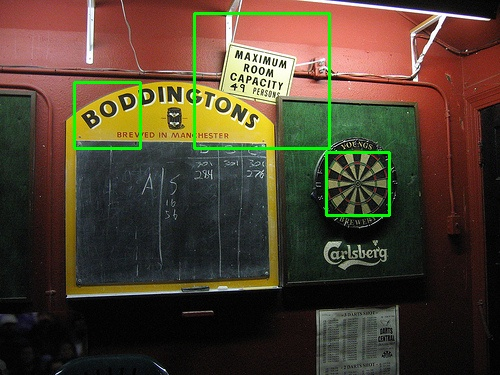
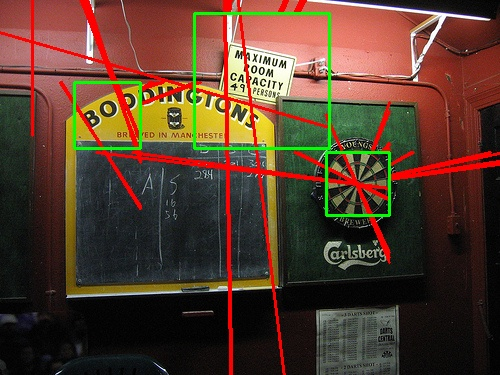
Detecting lines within box

diff --git a/dartboardDetector.cpp b/dartboardDetector.cpp
@@ -33,8 +33,8 @@ void getDirection( Mat &dfdx, Mat &dfdy, Mat &output );
 void getThresholdedMag(	Mat &input,	Mat &output );
 void getHoughSpace(	Mat &thresholdedMag, Mat &gradientDirection, int threshold, int width,	int height,	Mat &output,
                     std::vector<double> &rhoValues, std::vector<double> &thetaValues);
-void drawFoundLines( Mat &image, int width, int height, std::vector<double> &rhoValues, std::vector<double> &thetaValues, Mat &frame );
-int findLines( Mat &frame );
+void drawFoundLines( Mat &frame, Mat &croppedImg, std::vector<double> &rhoValues, std::vector<double> &thetaValues );
+int findLines( Mat &frame, Mat &croppedImg, Rect rectangle );
 int findCircles( Mat &frame );
 
 void findLinesInBoxes( Mat &frame );
@@ -244,9 +244,16 @@ void getHoughSpace( Mat &thresholdedMag, Mat &gradientDirection, int threshold, 
 	imwrite("output/houghSpace.jpg", houghSpace);
 }
 
-void drawFoundLines( Mat &image, int width, int height, std::vector<double> &rhoValues, std::vector<double> &thetaValues, Mat &frame ){
-	int centreX = width / 2;
-	int centreY = height /2;
+void drawFoundLines( Mat &frame, Mat &croppedImg, Rect rectangle, std::vector<double> &rhoValues, std::vector<double> &thetaValues ){
+
+  int frameWidth = frame.cols;
+  int frameHeight = frame.rows;
+
+  int cropWidth = croppedImg.cols;
+  int cropHeight = croppedImg.rows;
+
+  std::cout << rectangle.y << '\n';
+  Mat image = frame;
 
 	for (int i = 0; i < rhoValues.size(); i++) {
 
@@ -259,29 +266,39 @@ void drawFoundLines( Mat &image, int width, int height, std::vector<double> &rho
     // Using y = mx + c
     // y = (p/sin(theta)) - x(cos(theta)/sin(theta))
     m = cos(radians) / sin(radians);
-    c = (rho - width - height)/sin(radians);
+    c = (rho - cropWidth - cropHeight)/sin(radians);
 
     // If line is perfectly vertical or horizonal, stay in parameter
     // space
     if (cvIsInf(c)) {
       double a = cos(radians);
   		double b = sin(radians);
-  		double x0 = a * (rho - width - height);
-  		double y0 = b * (rho - width - height);
+  		double x0 = a * (rho - cropWidth - cropHeight);
+  		double y0 = b * (rho - cropWidth - cropHeight);
 
-  		point1.x = cvRound(x0 + width*(-b));
-  		point1.y = cvRound(y0 + height*(a));
-  		point2.x = cvRound(x0 - width*(-b));
-  		point2.y = cvRound(y0 - height*(a));
+  		point1.x = cvRound(x0 + cropWidth*(-b));
+  		point1.y = cvRound(y0 + cropHeight*(a));
+  		point2.x = cvRound(x0 - cropWidth*(-b));
+  		point2.y = cvRound(y0 - cropHeight*(a));
     }
     // Else use x,y space
     else {
-      // When x = 0
-      point1.x = 0;
-      point1.y = cvRound(c);
-      // When x = end of image
-      point2.x = cvRound(width);
-      point2.y = c - (width * m);
+      if (cvRound(rectangle.y + c) < rectangle.y) {
+        // When x = rectangle.x and y = rectangle.y + height
+        point1.x = cvRound(rectangle.x);
+        point1.y = cvRound(rectangle.y) + cvRound(c);
+        // When x = end of image
+        point2.x = cvRound(rectangle.x + rectangle.width);
+        point2.y = cvRound(rectangle.y) + cvRound(c - (rectangle.width * m));
+      }
+      else {
+        point1.x = cvRound(rectangle.x) + cvRound(c/m);
+        point1.y = cvRound(rectangle.y);
+        // When x = end of image
+        point2.x = cvRound(rectangle.x + rectangle.width);
+        point2.y = cvRound(rectangle.y) + cvRound(c - (rectangle.width * m));
+      }
+
     }
 
 		line(image, point1, point2,  Scalar( 0, 0, 255 ), 2);
@@ -290,13 +307,10 @@ void drawFoundLines( Mat &image, int width, int height, std::vector<double> &rho
 	imwrite("output/foundLines.jpg", image);
 }
 
-int findLines( Mat &frame ) {
+int findLines( Mat &frame, Mat &croppedImg, Rect rectangle ) {
 
-  Mat image = frame;
-  // image = imread(imgName, 1 );
+  Mat image = croppedImg;
 
-  // namedWindow( "Original Image", CV_WINDOW_AUTOSIZE );
-  // imshow( "Original Image", image );
   Mat grayImage;
 
   cvtColor( image, grayImage, CV_BGR2GRAY );
@@ -344,7 +358,7 @@ int findLines( Mat &frame ) {
 
 	getHoughSpace(thresholdedMag, gradientDirection, 240, image.cols, image.rows, houghSpace, rhoValues, thetaValues);
 
-	drawFoundLines(image, image.cols, image.rows, rhoValues, thetaValues, frame);
+	drawFoundLines(frame, image, rectangle, rhoValues, thetaValues);
 
   return rhoValues.size();
 }
@@ -416,6 +430,9 @@ int main( int argc, const char** argv ){
 	// 4. Detect Faces with Viola Jones
 	detectVJ( frame );
 
+  // Loop through rectangles to detect lines
+  findLinesInBoxes( frame );
+
   // Draw Viola Jones boxes
   displayVJ( frame );
 
@@ -423,10 +440,7 @@ int main( int argc, const char** argv ){
   imwrite( "output/detectedVJ.jpg", frame );
 
   // Find lines
-  findLines(frame);
-
-  // Loop through rectangles to detect lines
-  // findLinesInBoxes( frame );
+  //findLines(frame);
 
   // Draw final boxes
   // display( frame );
@@ -555,14 +569,13 @@ void findLinesInBoxes( Mat &frame ){
   Mat croppedImg;
   int linesFound = 0;
 
-  // for (int i = 0; i < detectedDartboardsVJ.size(); i ++){
-    croppedImg = frame(detectedDartboardsVJ[6]);
-    linesFound = findLines(frame);
+  for (int i = 0; i < detectedDartboardsVJ.size(); i ++){
+    croppedImg = frame(detectedDartboardsVJ[i]);
+    linesFound = findLines(frame, croppedImg, detectedDartboardsVJ[i]);
     // std::cout << croppedImg.rows << " " << croppedImg.cols << '\n';
 
     // if (linesFound > 10000)
     imwrite("output/crop.jpg", croppedImg);
-  // }
-  // findLines(frame);
-  // imwrite("output/crop.jpg", croppedImg);
+  }
+
 }
